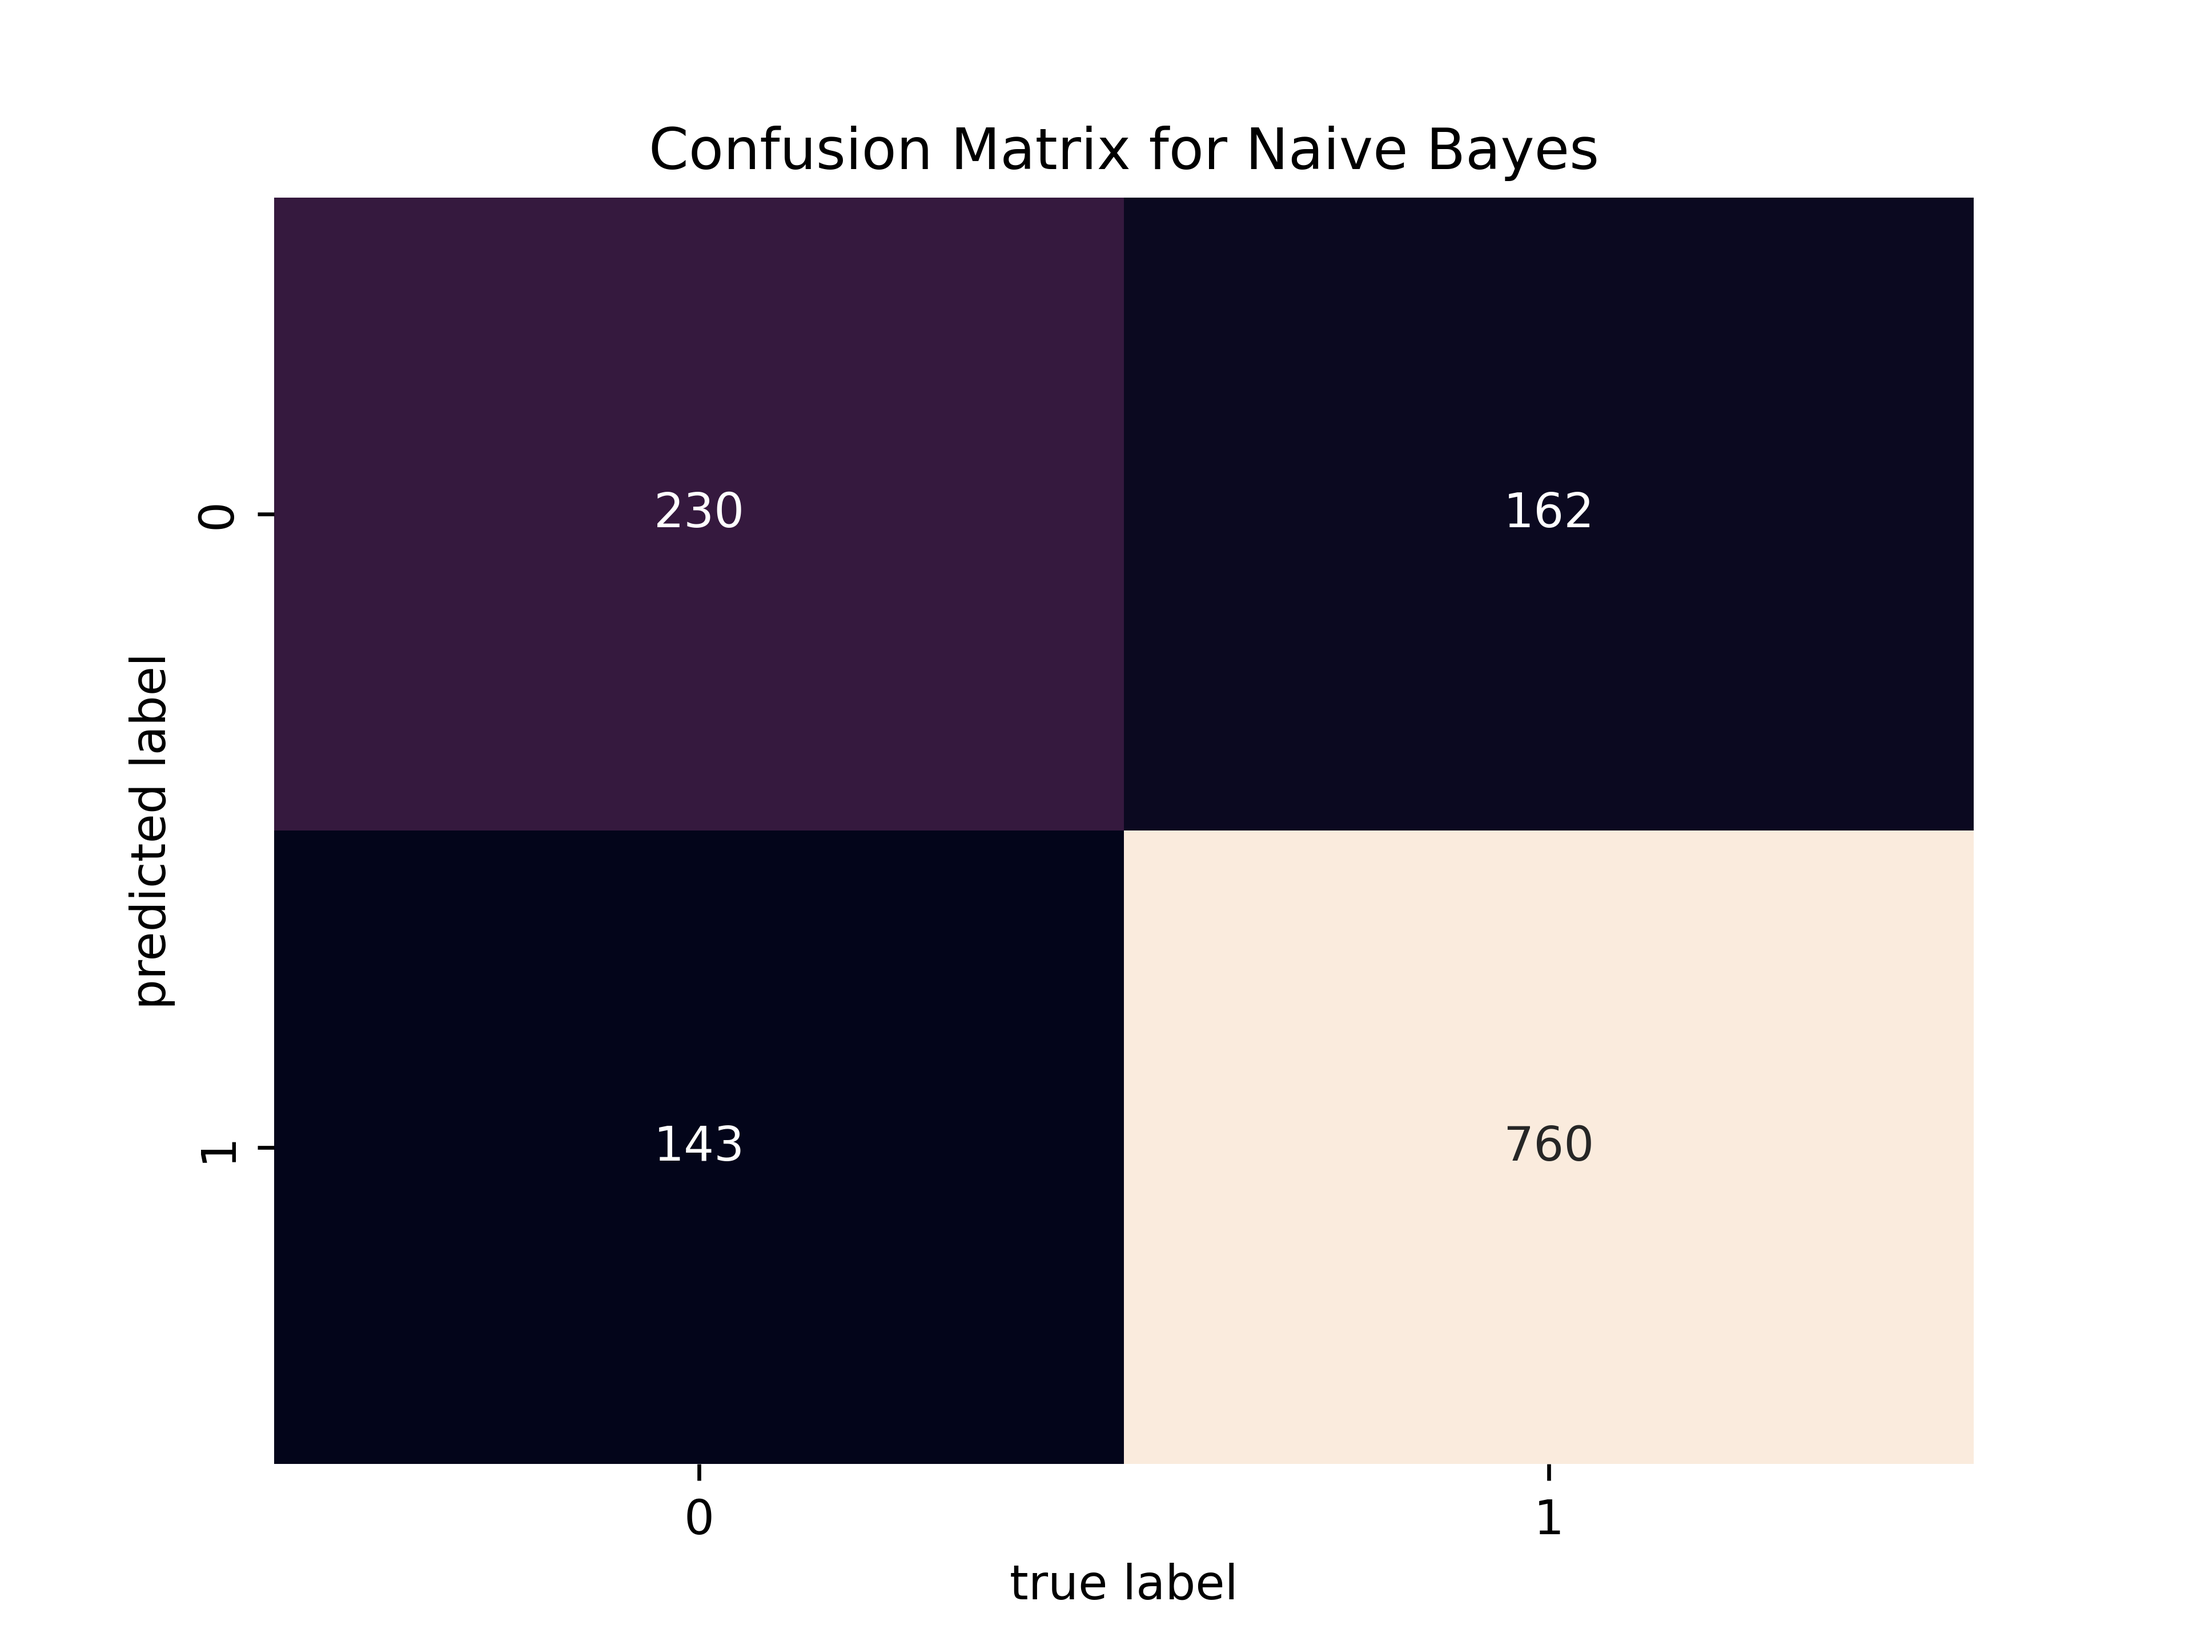
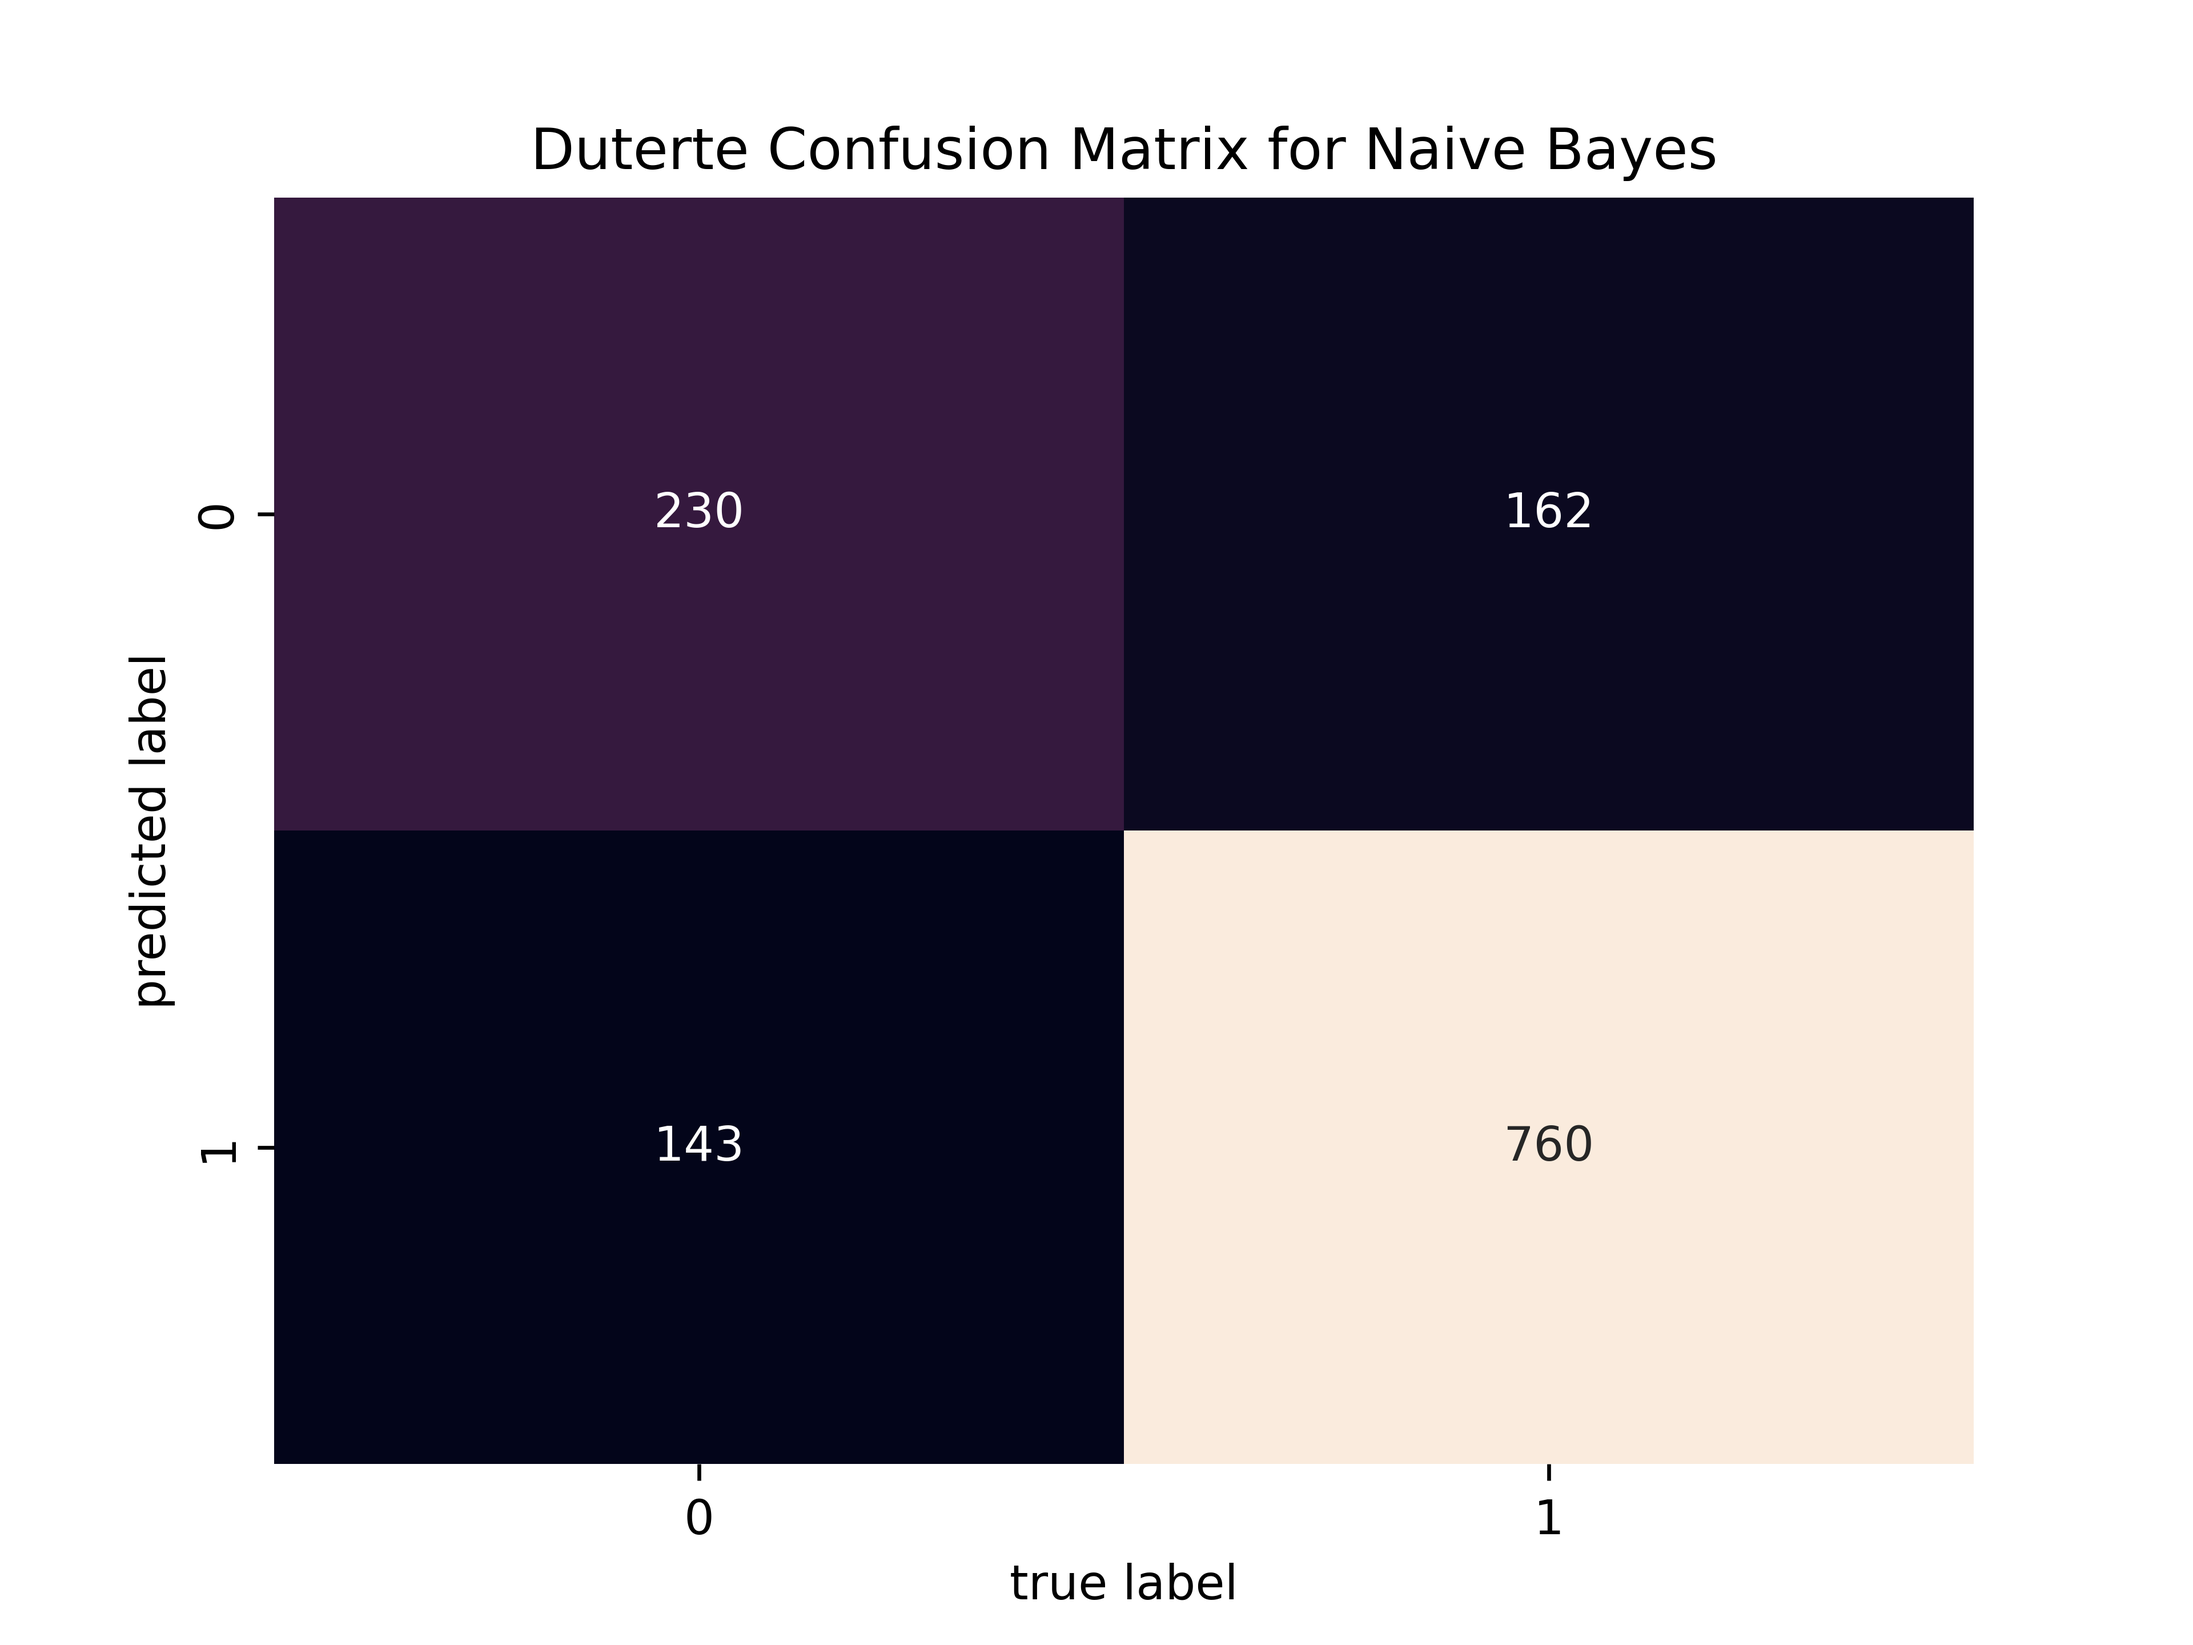
added vp results

Changed region(s): [[0.25, 0.0625, 0.7812, 0.125]]

diff --git a/FINAL/feature_naive.py b/FINAL/feature_naive.py
@@ -5,7 +5,7 @@ import gensim
 import seaborn as sns
 import matplotlib.pyplot as plt
 
-data = pd.read_csv("President-PP/robredoPP.csv")
+data = pd.read_csv("VP-PreProcessed/dutertePP.csv")
 no_neu = data[data["Sentiment"] != 'Neutral'] #only picking out tweets with either POSITIVE or NEGATIVE sentament
 
 bow_vectorizer = CountVectorizer(max_df=0.90 ,min_df=2 , max_features=1000,stop_words='english')
@@ -32,13 +32,13 @@ plt.figure(dpi=600)
 mat = confusion_matrix(y_test, predicted_naive)
 sns.heatmap(mat.T, annot=True, fmt='d', cbar=False)
 
-plt.title('Confusion Matrix for Naive Bayes')
+plt.title('Duterte Confusion Matrix for Naive Bayes')
 plt.xlabel('true label')
 plt.ylabel('predicted label')
-plt.savefig("P-Models/Naive_Bayes/Robredo_Matrix.png")
+plt.savefig("VP-Models/Naive_Bayes/Duterte_Matrix.png")
 plt.show()
 
 from sklearn.metrics import accuracy_score
 
 score_naive = accuracy_score(predicted_naive, y_test)
-print("Accuracy with Naive-bayes: ",score_naive)
+print("Duterte Accuracy with Naive-bayes: ",score_naive)

diff --git a/FINAL/logistic_regression.py b/FINAL/logistic_regression.py
@@ -8,7 +8,7 @@ import seaborn as sns
 import matplotlib.pyplot as plt
 
 # Load data
-data = pd.read_csv("President-PP/robredoPP.csv")
+data = pd.read_csv("VP-PreProcessed/sottoPP.csv")
 
 # Filter out Neutral sentiment
 no_neu = data[data["Sentiment"] != 'Neutral']
@@ -34,10 +34,10 @@ predicted_logistic = model_logistic.predict(X_test)
 # Evaluation
 mat = confusion_matrix(y_test, predicted_logistic)
 sns.heatmap(mat.T, annot=True, fmt='d', cbar=False)
-plt.title('Confusion Matrix for Logistic Regression')
+plt.title('Sotto Confusion Matrix for Logistic Regression')
 plt.xlabel('True label')
 plt.ylabel('Predicted label')
-plt.savefig("P-Models/Logistic_Regression/robredo_Matrix.png")
+plt.savefig("VP-Models/Logistic_Regression/Sotto_Matrix.png")
 plt.show()
 
 score_logistic = accuracy_score(predicted_logistic, y_test)

diff --git a/FINAL/SVM.py b/FINAL/SVM.py
@@ -8,7 +8,7 @@ import seaborn as sns
 import matplotlib.pyplot as plt
 
 # Load data
-data = pd.read_csv("President-PP/pacquiaoPP.csv")
+data = pd.read_csv("VP-PreProcessed/sottoPP.csv")
 
 # Filter out Neutral sentiment
 no_neu = data[data["Sentiment"] != 'Neutral']
@@ -34,11 +34,11 @@ predicted_svm = model_svm.predict(X_test)
 # Evaluation
 mat = confusion_matrix(y_test, predicted_svm)
 sns.heatmap(mat.T, annot=True, fmt='d', cbar=False)
-plt.title('Confusion Matrix for SVM')
+plt.title('Sotto Confusion Matrix for SVM')
 plt.xlabel('True label')
 plt.ylabel('Predicted label')
+plt.savefig("VP-Models/SVM/Sotto_Matrix.png")
 plt.show()
-plt.savefig("P-Models/SVM/pacquiao_Matrix.png")
 
 score_svm = accuracy_score(predicted_svm, y_test)
 print("Accuracy with Support Vector Machine: ", score_svm)
